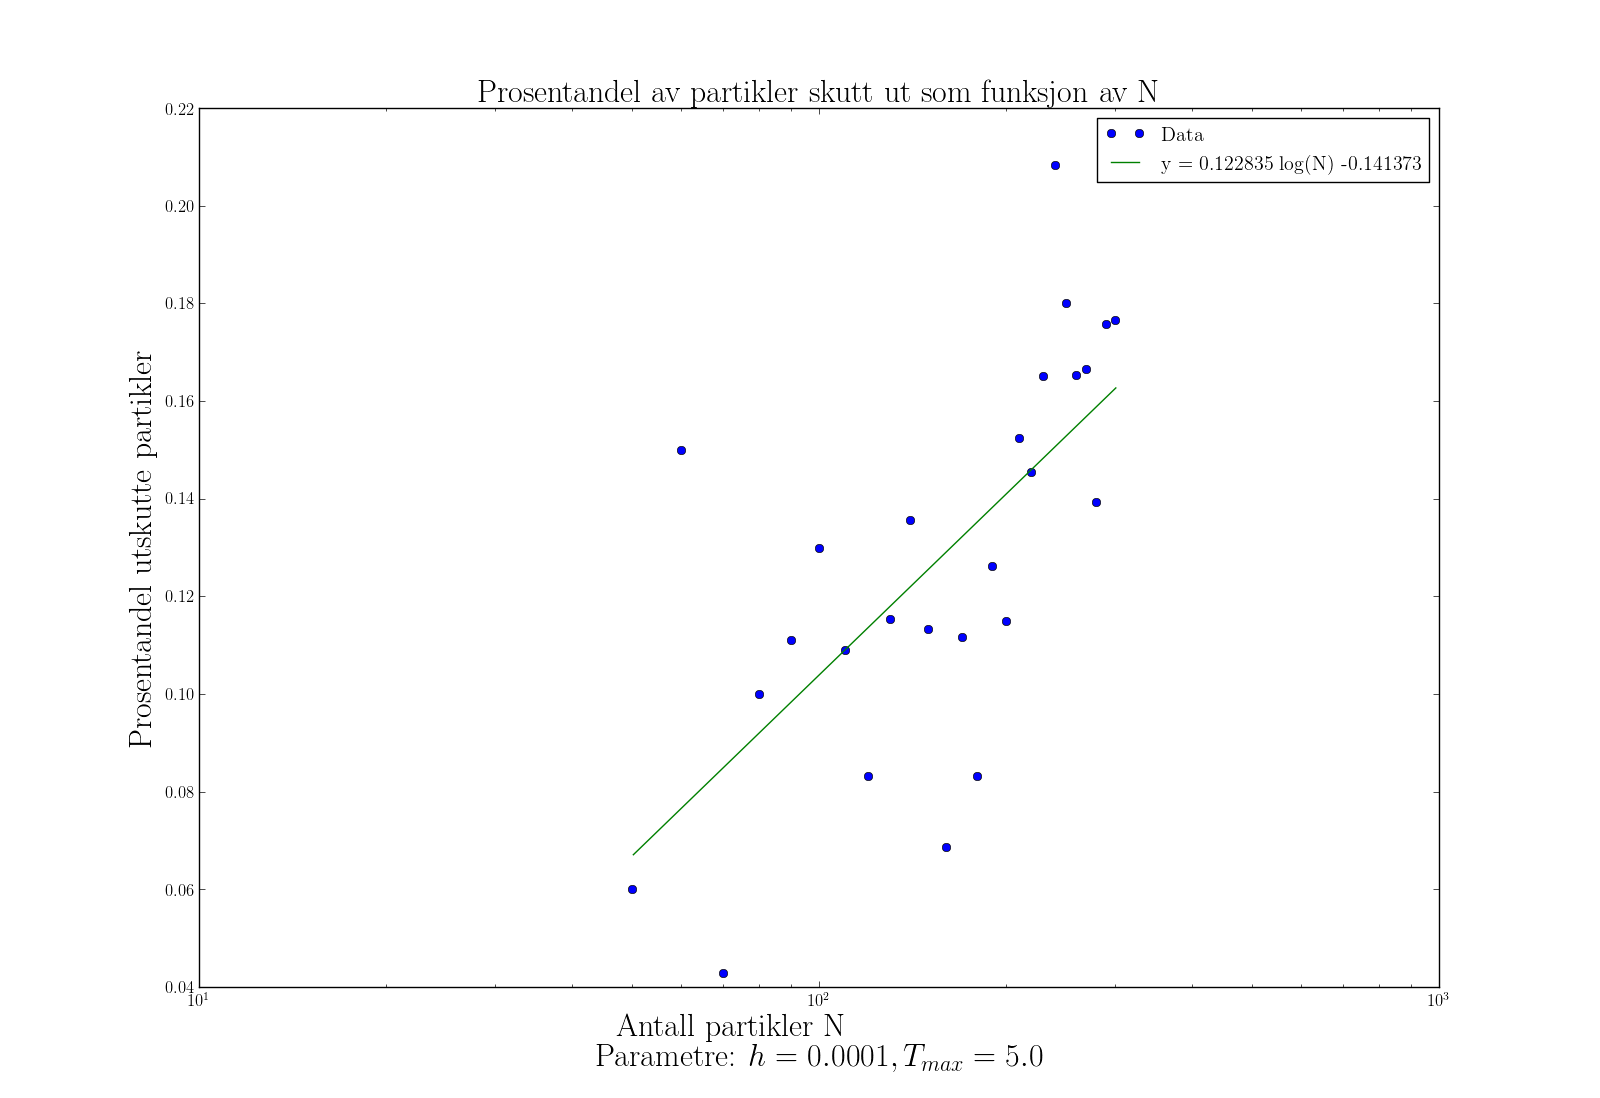
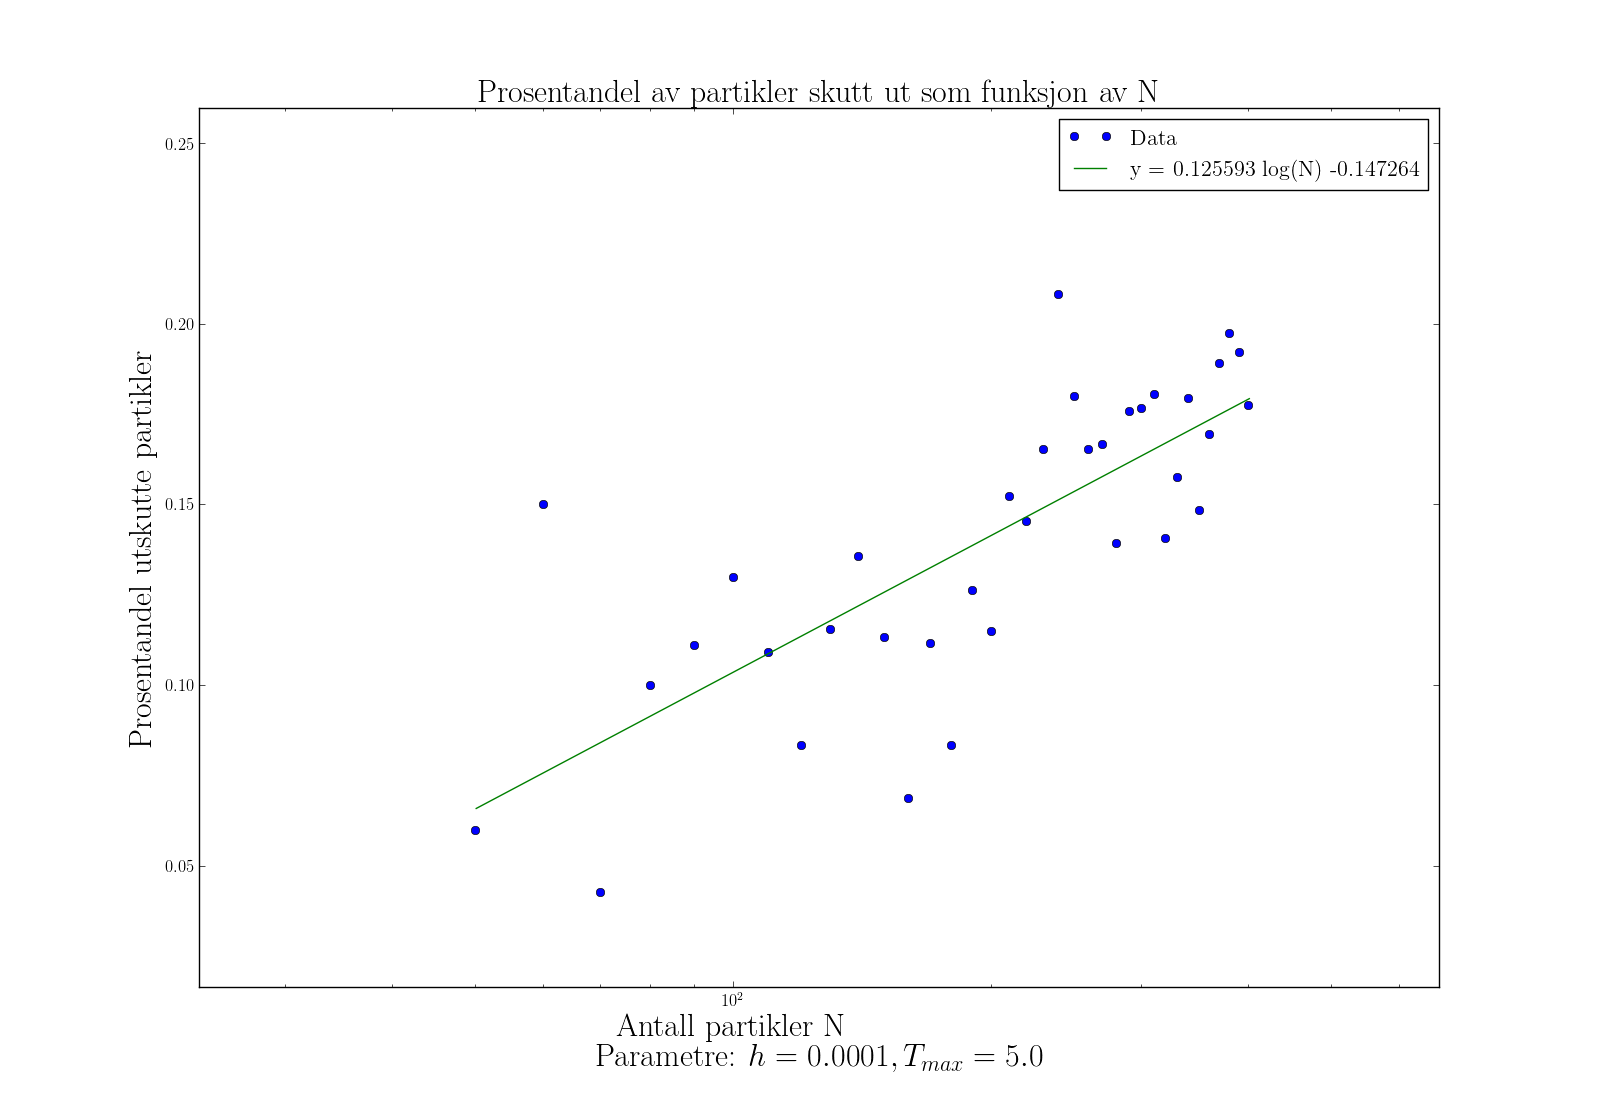
Averagedistance, plotpynting osv.

diff --git a/project5/src/radialDensity.py b/project5/src/radialDensity.py
@@ -6,69 +6,82 @@ from numpy import *
 import matplotlib.pyplot as plt
 from mpl_toolkits.mplot3d import Axes3D
 
-try:
-    datafile = sys.argv[1]
-except Exception:
-    print "Usage: %s datafile" % sys.argv[0]
-    sys.exit(1)
-
-data = loadtxt(datafile)
-
-n_bodies = len(data[0])/3
-n_timesteps = len(data)
-
-r = empty((n_bodies,n_timesteps,3))
-
-print data.shape, r.shape
-for i in range(n_bodies):
-    r[i] = data[:,i*3:i*3+3]
-#r[body,timestep,koordinat]
-eq = len(r[0,:,0])/2
-
-#finner r etter equilibrium
-r = r[:,eq:,:]
-average_r_array = []
-for body_i in xrange(n_bodies):
-    # first, test for ejected bodies
-    if r[body_i, 0,0]+r[body_i,0,1] == 0:
-        continue
-    average_r = 0
-    for time_i in xrange(n_timesteps-eq):
-        average_r += linalg.norm(r[body_i, time_i,:])
-    average_r /= n_timesteps
-    average_r_array.append(average_r) 
-
-print len(average_r_array)
+# try:
+#     datafile = sys.argv[1]
+# except Exception:
+#     print "Usage: %s datafile" % sys.argv[0]
+#     sys.exit(1)
 
 fig, ax = plt.subplots()
-r = average_r_array
-n, bins, patches = ax.hist(r,
+for N in [100,150, 200, 300]:
+    datafile = 'data/Nbody_position_Verlet_-9.210340_5.000000_%d_1.dat' %N
+    data = loadtxt(datafile)
+
+    n_bodies = len(data[0])/3
+    n_timesteps = len(data)
+
+    r = empty((n_bodies,n_timesteps,3))
+
+    print data.shape, r.shape
+    for i in range(n_bodies):
+        r[i] = data[:,i*3:i*3+3]
+    #r[body,timestep,koordinat]
+    eq = len(r[0,:,0])/2
+
+    #finner r etter equilibrium
+    r = r[:,eq:,:]
+    average_r_array = []
+    for body_i in xrange(n_bodies):
+        # first, test for ejected bodies
+        if r[body_i, 0,0]+r[body_i,0,1] == 0:
+            continue
+        average_r = 0
+        for time_i in xrange(n_timesteps-eq):
+            average_r += linalg.norm(r[body_i, time_i,:])
+        average_r /= n_timesteps
+        average_r_array.append(average_r) 
+
+    print len(average_r_array)
+
+    r = average_r_array
+    n, bins, patches = ax.hist(r,
                            bins=arange(int(min(r)), 
                                        int(max(r))+1,0.25),
-                           rwidth=1)# normed=True)
-plt.setp(patches, 'facecolor', 'g', 'alpha', 0.75)
-
-r = sort(r)
-ax.plot(r, max(n)/(1+(r/(r[argmax(n)]))**4), 'b')
-ax.set_xlabel('r')
-ax.set_ylabel('P(r)')
+                               rwidth=1, normed=True, 
+                               label= 'N = %d' %N)
+    plt.setp(patches, 'alpha', 0.75)
 
 
-rho = []
-rmaxrange = arange(0.01, 30, 0.5)
-for Rmax in rmaxrange:
-    number_inside = sum(r<Rmax)
-    Volume = 4*pi*Rmax**3/3 
-    rho.append(number_inside/Volume)
+
+    r = sort(r)
+
+    #n0 = max(n)
+    #r0 = r[argmax(n)]
+    N_ = len(r)
+    
+    n0 = 1.3*N_*N_
+    r0 = 1.5*N_**(-1/3.0)
+    
+    ax.plot(r, n0/(1+(r/(r0))**4), label= 'N = %d' %N)
+    ax.set_xlabel('r')
+    ax.set_ylabel('P(r)')
+plt.legend()
+
+# rho = []
+# rmaxrange = arange(0.01, 30, 0.5)
+# for Rmax in rmaxrange:
+#     number_inside = sum(r<Rmax)
+#     Volume = 4*pi*Rmax**3/3 
+#     rho.append(number_inside/Volume)
 
 
-fig, ax = plt.subplots()
-ax.plot(rmaxrange, rho)
-r0 = r[argmax(rho)]
-rho0 = max(rho)
-ax.plot(rmaxrange, rho0/((rmaxrange/r0)*(1+rmaxrange/r0)**2))
-ax.set_xlabel('r')
-ax.set_ylabel('rho')
+# fig, ax = plt.subplots()
+# ax.plot(rmaxrange, rho)
+# r0 = r[argmax(rho)]
+# rho0 = max(rho)
+# ax.plot(rmaxrange, rho0/((rmaxrange/r0)*(1+rmaxrange/r0)**2))
+# ax.set_xlabel('r')
+# ax.set_ylabel('rho')
 plt.show()
 
-#0.025/(1+(rmaxrange/8.0)**4)
+# #0.025/(1+(rmaxrange/8.0)**4)

diff --git a/project5/report/report.tex b/project5/report/report.tex
@@ -285,8 +285,8 @@ Til å begynne med setter vi $\epsilon = 10^{-3}$, som vi senere vil se gir
 gode resultater. Denne verdien er funnet etter prøving og feiling. 
 $\epsilon > 10^{-3}$ gir oss en uønsket stor dempning i kraften, og 
 $\epsilon < 10^{-3}$ gir fort samme problem som vi begynte med, deling på
-veldig små tall. Vi merker oss at $\epsilon = 10^{-3} {ly}^2$ er et veldig 
-stort tall, til sammenligning er $R_{solar}^2 \sim 10^{-15}$ 
+veldig små tall. Vi merker oss at $\epsilon = 10^{-3} {ly}^2$ (light years) er et veldig 
+stort tall, til sammenligning er $R_{solar}^2 \sim 10^{-15} {ly}^2$. 
 
 \subsection{Energibevaring}
 Selv om animasjoner alltid er flott, tenker vi det kan være lurt å ha en mer
@@ -336,13 +336,13 @@ være en del av vår likevektstilstand, og vi ønsker derfor å ha muligheten
 til å se bort fra dem. Men hvordan kan vi identifisere en partikkel
 som er skutt ut? Vi vet at en partikkel med $E_i > 0$ har $E_K > |E_p|$, og
 vil derfor unnslippe galaksehopen. Dette viser seg derimot å være ustabilt. Se
-f.eks. figure \ref{fig:energivariasjon} der vi kan se at den gjennomsnittlige
+f.eks. figur \ref{fig:energivariasjon} der vi kan se at den gjennomsnittlige
 energien varierer lite, selv om den 'lokale' energien noen ganger gjør et hopp.
  På grunn av denne lokale numeriske ustabiliteten ser vi oss nødt til å gjøre
 noe mer robust enn kun å se på energien. Vi observerer at en utskutt 
 partikkel alltid vil forsvinne mot 'det fjerne', og derfor at 
-$r_{utskutt} > R_0$. Vi bestemmer oss derfor for at i vårt program har ikke
-en utskutt partikkel \emph{bare} positiv energi, $E > 0$, men også posisjon
+$r_{utskutt} > R_0$. Vi bestemmer oss derfor for at i vårt program har
+en utskutt partikkel ikke \emph{bare} positiv energi, $E > 0$, men befinner seg også
 utenfor kuleskallet vi begynte med. 
 
 I programmet vårt fjerner vi de utskutte
@@ -421,6 +421,22 @@ flatt.
 Grunnen til at totalenergien blir mer negativ når vi tar ut partiklene
 følger logisk av at vi bare tar ut partikler som har netto positiv
 energi. Tar vi vekk disse blir totalen åpenbart mer negativ. 
+
+I figur
+\ref{fig:prosentandel-utskutte} kan vi se hvordan prosentandelen
+av partiklene som blir skutt ut endrer seg som funksjon av N. 
+
+\end{multicols}
+\begin{figure}[ht!]
+  \centering
+  \includegraphics[width=\textwidth]{../fig/prosentandel.png}
+  \caption{\label{fig:prosentandel-utskutte} Systemets
+    totalenergi som funksjon av tid med masseutskytelse. Vi legger
+    særlig merke til at en liten tid etter $\tau_\text{crunch}$ får vi
+  en voldsom reduksjon i energien til systemet. Vi ser så at etter en
+  tid ser energien ut til å stabilisere seg på et lavere nivå.}
+\end{figure}
+\begin{multicols}{2}
 
 \subsubsection{$N$-avhengighet}
 Vi kan lure på hvordan dette endrer seg med $N$. I figur

diff --git a/project5/src/averageDistanceFuncN.py b/project5/src/averageDistanceFuncN.py
@@ -8,7 +8,7 @@ from mpl_toolkits.mplot3d import Axes3D
 
 average_distance = []
 
-Nlist = range(50,261,10)
+Nlist = range(50,391,10)
 for N in Nlist:
     datafile = 'data/Nbody_position_Verlet_-9.210340_5.000000_%d_1.dat' %N
     data = loadtxt(datafile)
@@ -40,10 +40,27 @@ for N in Nlist:
     average_distance.append(average_average_r)
 
 
+logh, Tmax, N, check_ =  [float(datafile[:-4].split('_')[i+3]) for i in range(0,4)]
+
+
+
+
 fig, ax = plt.subplots()
-ax.semilogx(Nlist, average_distance)
-ax.set_xlabel('N')
-ax.set_ylabel('[R]')
+
+plt.rc('font', **{'family': 'serif', 'serif': ['Computer Modern']})
+plt.rc('text', usetex = True)
+
+
+ax.semilogx(Nlist, average_distance, 'o', label='Data')
+fittedcurve = poly1d(polyfit(log10(Nlist), average_distance, 1))
+c0, c1 = polyfit(log10(Nlist), average_distance, 1)
+ax.semilogx(Nlist,fittedcurve(log10(Nlist)), label=r'y = %f log(N) + %f' %(c0,c1))
+ax.set_xlabel(r'Antall partikler N \\' \
+              + r'Parametre: $h = %g, T_{max} = %.1f$ \\' \
+              %(exp(logh), Tmax), size=23)
+ax.set_ylabel('Gjennomsnittlig avstand fra origo, R',  size=23)
+ax.set_title(r'Gjennomsnittlig avstant fra origo som funksjon av N', size=23)
+plt.legend(prop={'size':16})
 plt.show()
 
 #0.025/(1+(rmaxrange/8.0)**4)

diff --git a/project5/src/ejectedPercentage.py b/project5/src/ejectedPercentage.py
@@ -8,7 +8,7 @@ from mpl_toolkits.mplot3d import Axes3D
 
 ejected_percentage = []
 
-Nlist = range(50,301,10)
+Nlist = range(50,401,10)
 for N in Nlist:
     datafile = 'data/Nbody_position_Verlet_-9.210340_5.000000_%d_1.dat' %N
     data = loadtxt(datafile)
@@ -49,7 +49,7 @@ ax.set_xlabel(r'Antall partikler N \\' \
               %(exp(logh), Tmax), size=23)
 ax.set_ylabel('Prosentandel utskutte partikler',  size=23)
 ax.set_title(r'Prosentandel av partikler skutt ut som funksjon av N', size=23)
-plt.legend()
+plt.legend(prop={'size':16})
 plt.show()
 
 #0.025/(1+(rmaxrange/8.0)**4)
